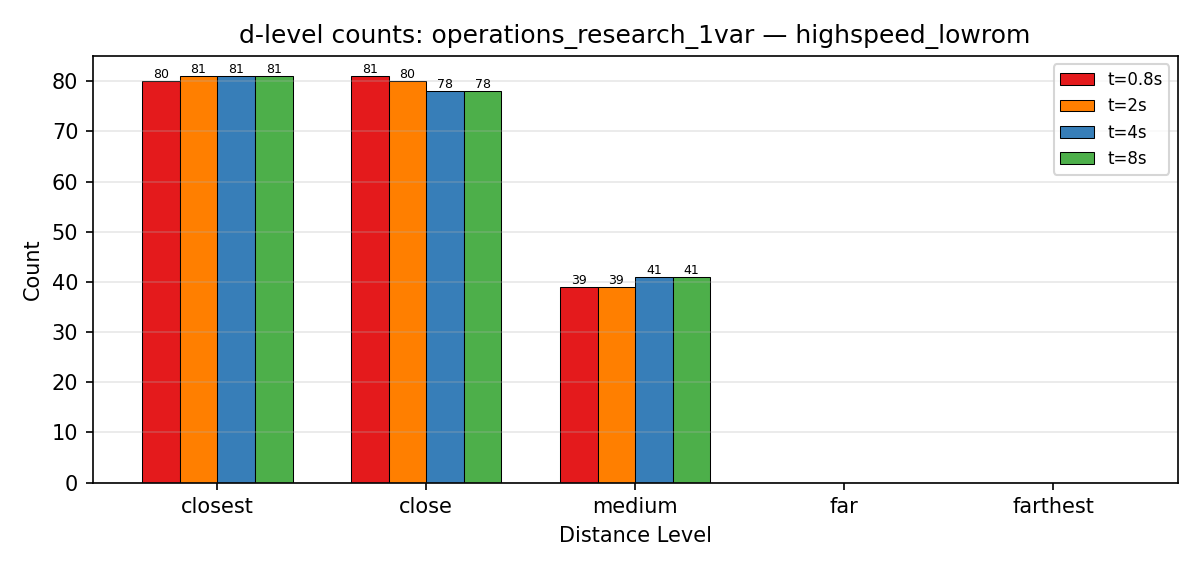
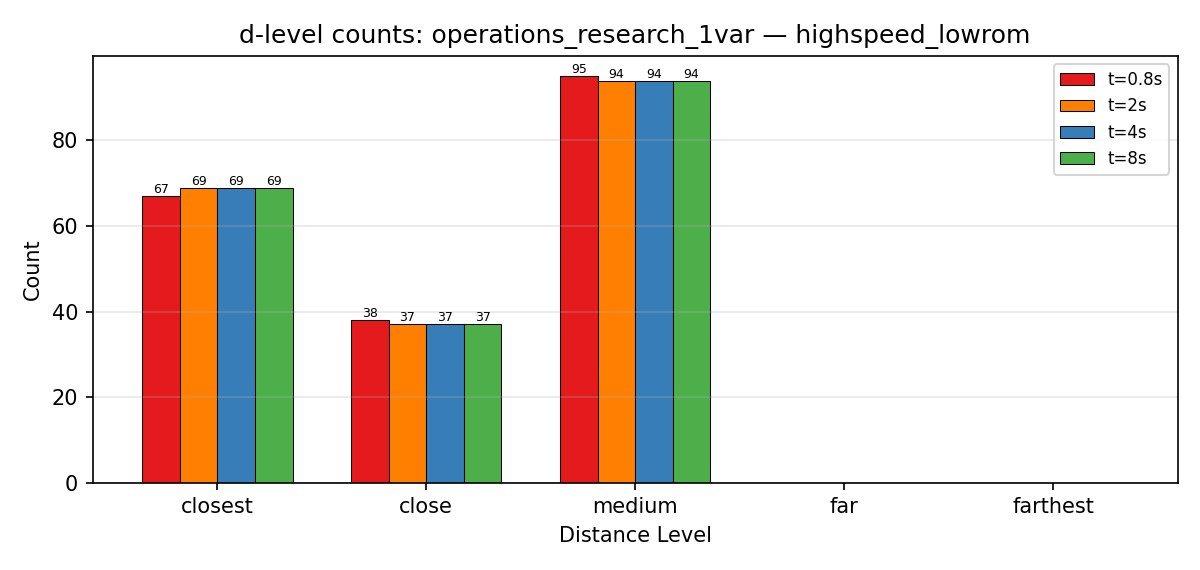
operations research manually verified

diff --git a/1_var/operations_research_1var.py b/1_var/operations_research_1var.py
@@ -68,7 +68,7 @@ def rarity_bonus(counts_5x5, d, d_min=D_MIN, d_max=D_MAX, eps=1e-9):
     """Bonus for under-sampled distance bins (same -log frequency as 3-var rarity)."""
     i = level5(d, d_min, d_max)
     total = float(counts_5x5.sum())
-    freq = (counts_5x5[i, 0] + 1.0) / (total + 25.0)
+    freq = (counts_5x5[i, 0] + 1.0) / (total + 5.0)
     return -math.log(freq + eps)
 
 
@@ -111,9 +111,7 @@ def apply_calibration_priors(patient: PatientModel, calibration_result: dict | N
 
 
 def derive_bounds_from_calibration(calibration_result, patient):
-    # QUICK TEST: ignore patient ROM hard limit so the controller can explore full d range.
-    # return cap_distance_bounds(patient, D_MIN, D_MAX)
-    return D_MIN, D_MAX
+    return cap_distance_bounds(patient, D_MIN, D_MAX)
 
 
 def expand_bounds_if_needed(d_min, d_max, observed_speeds, t_fixed, patient_max_reach=None):
@@ -231,23 +229,25 @@ def score_speed_candidate(
     rom_tau_d: float = 0.05,
     rom_boundary_threshold: float = 0.35,
 ):
+    # Targeting 0.7 hit rate
     p = p_hit_from_speed(v_req, v_hat, sigma_v)
-
     if p < p_min:
         return -1e9, p, 0.0, 0.0, 0.0, float(D_MAX)
-
     eff_raw = (p - p_star) ** 2
     eff_normalized = 1.0 - eff_raw / (p_star ** 2)
 
+    # Encourage variability
     if counts_5x5 is None:
         var_normalized = 0.0
     else:
         var_raw = rarity_bonus(counts_5x5, d_sys, d_min=d_min, d_max=d_max)
         total = float(counts_5x5.sum())
-        var_max = math.log(total + 25.0) if total > 0 else math.log(25.0)
+        var_max = math.log(total + 5.0) if total > 0 else math.log(5.0)
         var_normalized = float(var_raw / (var_max + 1e-9))
 
     score = w_eff * eff_normalized + w_var * var_normalized
+
+    # Discourage overly long distance
     rom_penalty, rom_risk, rom_confidence, rom_boundary = rom_penalty_term(
         d_sys,
         rom_state=rom_state,
@@ -312,7 +312,7 @@ def run_sim(
             v_hat = float(np.mean(v_obs_init))
             sigma_v = float(max(np.std(v_obs_init), sigma_v_floor))
         else:
-            v_hat = 0.60
+            v_hat = 0.20
             sigma_v = 0.25
     else:
         v_hat = 0.20
@@ -335,6 +335,7 @@ def run_sim(
         "rom_confidence": [],
         "rom_boundary": [],
     }
+
     observed_speeds = []
     rom_state = make_rom_state(d_min=cur_d_min, d_max=cur_d_max)
 
@@ -401,14 +402,15 @@ def run_sim(
         counts_5x5[i, j] += 1
 
         lvl = distance_level_from_patient_bins(patient, d_sys)
-        direction = int(rng.integers(0, 5))
+        
         outcome = patient.sample_trial(
             t_sys=t_sys,
             d_sys=d_sys,
             distance_level=lvl,
             previous_hit=previous_hit,
-            direction_bin=direction,
+            direction_bin=int(rng.integers(0, 5)),
         )
+
         hit = bool(outcome["hit"])
         previous_hit = hit
         update_rom_state(

diff --git a/2_var/operations_research_2var.py b/2_var/operations_research_2var.py
@@ -324,6 +324,7 @@ def score_candidate(
     var_normalized = var_raw / (var_max + 1e-9)  # 1 = maximally rare bin
 
     score = w_eff * eff_normalized + w_var * var_normalized
+    
     rom_penalty, rom_risk, rom_confidence, rom_boundary = rom_penalty_term(
         d,
         rom_state=rom_state,
